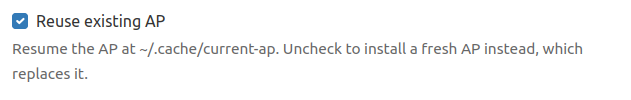
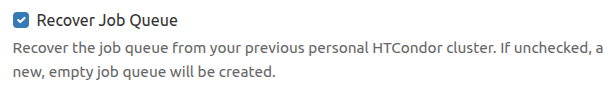
Update doc pictures

Changed region(s): [[0.0, 0.4211, 0.9951, 0.5895], [0.0, 0.6737, 0.4664, 0.8421], [0.0, 0.1263, 0.311, 0.3158]]

diff --git a/README.md b/README.md
@@ -41,8 +41,8 @@ To launch an instance of the **Create Personal HTCondor** interactive app:
 
 # Submit your first HTCondor Job
 
-Your AP and EP interactive apps comprise a complete HTCondor cluster. HTCondor jobs submitted to your AP
-will run on your EP. 
+The AP node and EP nodes in your interactive app comprise a complete HTCondor cluster. HTCondor jobs submitted to your AP
+will run on your EPs. 
 
 Place a "Hello World" HTCondor job into your AP's job queue.
 
@@ -96,20 +96,20 @@ Place a "Hello World" HTCondor job into your AP's job queue.
 
 # Additional Utilities
 
-## Resume an Access Point
+## Recover your Job Queue
 
-The AP configured by the **Personal HTCondor AP** app will exit after 4 hours by default. To resume your AP after it exits,
-re-run the Personal AP interactive app, ensuring that the "Resume AP" checkbox is checked.
+The cluster configured by the **Create Personal HTCondor** app will exit after 4 hours by default. To resume any idle jobs from your cluster
+after it exits, re-run the interactive app, ensuring that the "Recover Job Queue" checkbox is checked.
 
-To launch a fresh AP, discarding your previous instance, re-run the app with the "Resume AP" checkbox unchecked.
+To launch a fresh cluster, discarding your previous instance, re-run the app with the "Recover Job Queue" checkbox unchecked.
 
 ![Reuse AP](/docs/reuse-ap.png)
 
-**Note:** For best results, avoid scheduling multiple simultaneous instances of the Personal AP interactive app. Ensure that your previous
+**Note:** For best results, avoid scheduling multiple simultaneous instances of the Personal HTCondor interactive app. Ensure that your previous
 instance of the app is completed or cancelled before scheduling a new instance.
 
 ## Add Execution Points
 
-To run larger workloads on your HTCondor cluster, you can schedule additional EPs by re-running the **Personal HTCondor EP** interactive app.
+To run larger workloads on your HTCondor cluster, you can schedule additional EPs by running the **Extend Personal HTCondor** interactive app.
 
-Each simultaneous instance of the EP app will provide additional compute capacity to your cluster.
+Each simultaneous instance of the Extend Personal HTCondor app will provide additional compute capacity to your cluster.
